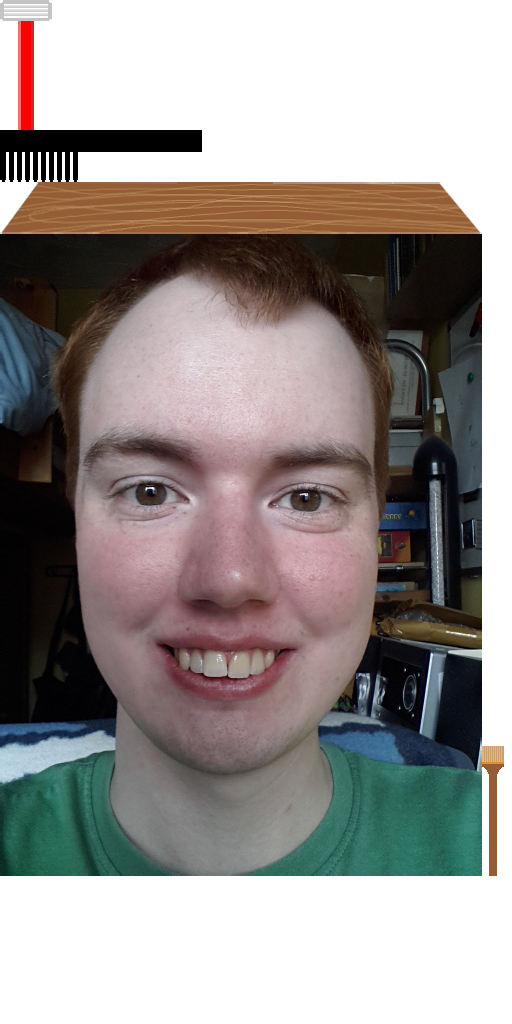
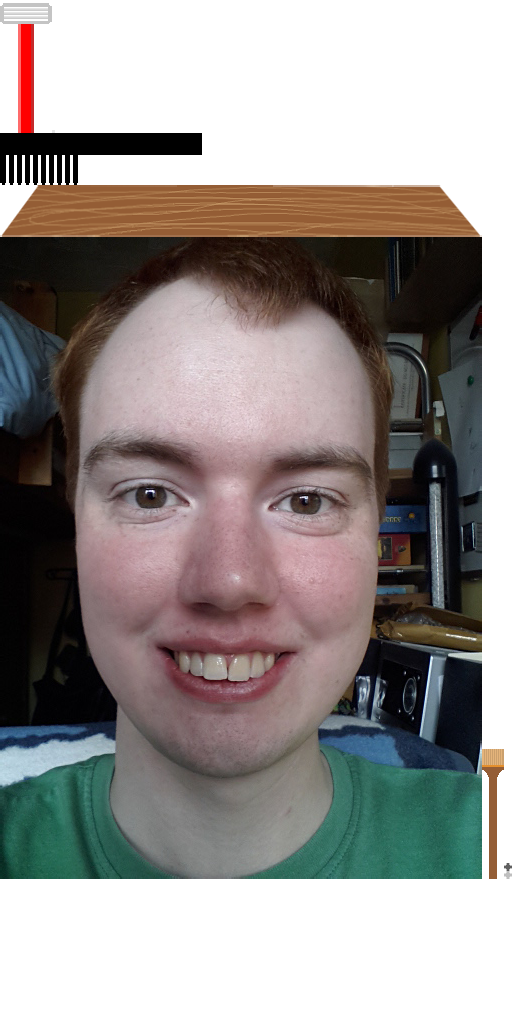
Colour picker appears when you choose the brush, and lets you select the dye colour.

diff --git a/beardsim/src/uk/co/samatkins/beardsim/shaving/ColorSelectionWindow.java b/beardsim/src/uk/co/samatkins/beardsim/shaving/ColorSelectionWindow.java
@@ -1,0 +1,57 @@
+package uk.co.samatkins.beardsim.shaving;
+
+import uk.co.samatkins.HSVColor;
+import uk.co.samatkins.ui.UIHSVSelector;
+import uk.co.samatkins.ui.UITextButton;
+import uk.co.samatkins.ui.UIWindow;
+
+import com.badlogic.gdx.scenes.scene2d.InputEvent;
+import com.badlogic.gdx.scenes.scene2d.ui.Skin;
+import com.badlogic.gdx.scenes.scene2d.utils.ClickListener;
+
+public class ColorSelectionWindow extends UIWindow {
+	
+	private ShavingScene shavingScene;
+	
+	private UIHSVSelector colorSelector;
+	private UITextButton closeButton;
+
+	public ColorSelectionWindow(ShavingScene shavingScene, Skin skin) {
+		super(skin);
+		setVisible(false);
+		
+		this.shavingScene = shavingScene;
+		
+		colorSelector = new UIHSVSelector(skin);
+		
+		colorSelector.setValue(
+				HSVColor.fromRGB(
+						((ColorBrush)shavingScene.getTool("colorbrush"))
+								.getColor()
+				)
+		);
+		
+		closeButton = new UITextButton("Done", skin);
+		closeButton.addListener(new ClickListener(){
+			@Override
+			public void clicked(InputEvent event, float x, float y) {
+				done();
+			}
+		});
+		
+		add(colorSelector).row();
+		add(closeButton);
+		
+		pack();
+		setFillParent(true);
+	}
+	
+	public void done() {
+		((ColorBrush)shavingScene.getTool("colorbrush"))
+				.setColor(colorSelector.getValue().toRGB());
+		
+		setVisible(false);
+	}
+	
+
+}

diff --git a/beardsim/src/uk/co/samatkins/beardsim/shaving/ShavingScene.java b/beardsim/src/uk/co/samatkins/beardsim/shaving/ShavingScene.java
@@ -11,6 +11,8 @@ import com.badlogic.gdx.graphics.Color;
 import com.badlogic.gdx.math.Vector2;
 import com.badlogic.gdx.scenes.scene2d.ui.Label;
 import com.badlogic.gdx.scenes.scene2d.ui.Skin;
+import com.badlogic.gdx.scenes.scene2d.ui.Window;
+import com.badlogic.gdx.scenes.scene2d.ui.Window.WindowStyle;
 
 public class ShavingScene extends Scene {
 	
@@ -26,6 +28,8 @@ public class ShavingScene extends Scene {
 	private Label symmetryLabel;
 	
 	private Vector2 mousePos;
+	
+	private ColorSelectionWindow colorWindow;
 	
 	public ShavingScene(BeardSim game) {
 		super(game);
@@ -50,15 +54,21 @@ public class ShavingScene extends Scene {
 		table.add(symmetryLabel).row();
 		
 		table.add(toolShelf).colspan(2);
+		
+		// Colour selection window
+		colorWindow = new ColorSelectionWindow(this, skin);
 	}
 	
 	@Override
 	public void show() {
-		add(face);
 		super.show();
+		add(face);
+		face.toBack();
 		add(razor);
 		add(comb);
 		add(colorBrush);
+		
+		addActor(colorWindow);
 		
 		setTool(razor);
 		
@@ -68,6 +78,12 @@ public class ShavingScene extends Scene {
 	public void setTool(Tool tool) {
 		if (currentTool != null) {
 			currentTool.setVisible(false);
+		}
+		
+		if (tool == colorBrush) {
+			// Show colour picker
+			colorWindow.toFront();
+			colorWindow.setVisible(true);
 		}
 		
 		currentTool = tool;

diff --git a/beardsim/src/uk/co/samatkins/HSVColor.java b/beardsim/src/uk/co/samatkins/HSVColor.java
@@ -28,15 +28,16 @@ public class HSVColor {
 		int chroma;
 		
 		int biggest = Math.max(Math.max(r, g), b);
-		if (biggest == r) {
-			chroma = r - Math.min(g, b);
-			hue = (g-b)/chroma;
+		
+		if (biggest == b) {
+			chroma = b - Math.min(r, g);
+			hue = (r-g)/(chroma+4);
 		} else if (biggest == g) {
 			chroma = g - Math.min(r, b);
 			hue = (b-r)/(chroma+2);
-		} else if (biggest == b) {
-			chroma = b - Math.min(r, g);
-			hue = (r-g)/(chroma+4);
+		} else if (biggest == r) {
+			chroma = r - Math.min(g, b);
+			hue = (g-b)/chroma;
 		} else {
 			chroma = 0;
 			hue = 0;
@@ -44,6 +45,7 @@ public class HSVColor {
 		val = biggest;
 		
 		sat = chroma / val;
+		val /= 255f;
 		
 		return new HSVColor(hue, sat, val);
 	}

diff --git a/beardsim/src/uk/co/samatkins/beardsim/shaving/ToolShelf.java b/beardsim/src/uk/co/samatkins/beardsim/shaving/ToolShelf.java
@@ -35,7 +35,7 @@ public class ToolShelf extends Table {
 		private ShavingScene shavingScene;
 		
 		public ToolButton(Skin skin, String toolName, ShavingScene shavingScene) {
-			super(skin.getDrawable(toolName), null, skin.getDrawable("blank"));
+			super(skin.getDrawable(toolName), null, skin.getDrawable("nothing"));
 			
 			this.shavingScene = shavingScene;
 			this.tool = shavingScene.getTool(toolName);

diff --git a/beardsim/src/uk/co/samatkins/beardsim/shaving/ColorBrush.java b/beardsim/src/uk/co/samatkins/beardsim/shaving/ColorBrush.java
@@ -50,5 +50,15 @@ public class ColorBrush extends Tool {
 	protected void useOnHair(Hair hair, Vector2 movement) {
 		hair.setColor(color);
 	}
+	
+	@Override
+	public void setColor(Color color) {
+		this.color = color;
+	}
+	
+	@Override
+	public Color getColor() {
+		return this.color;
+	}
 
 }
